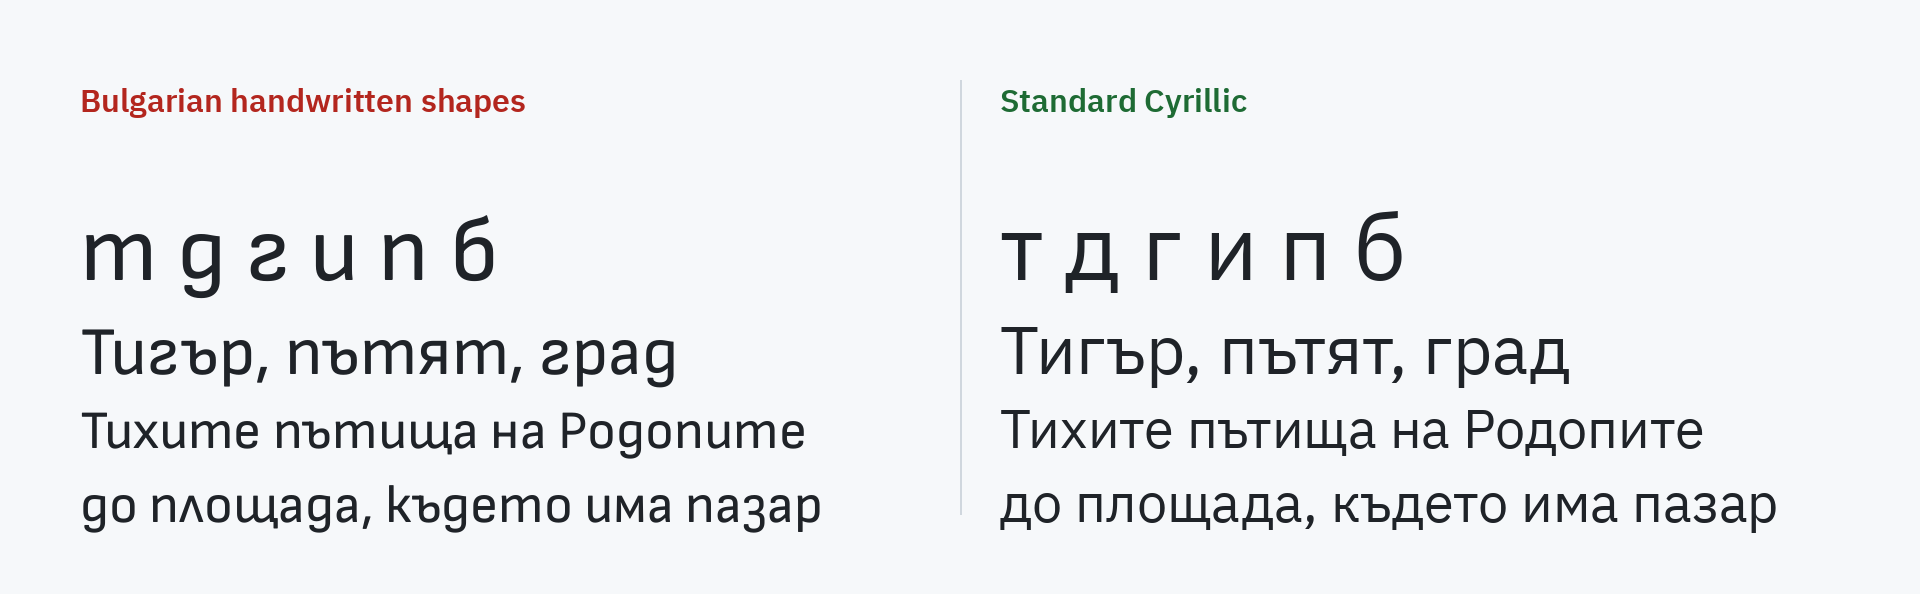
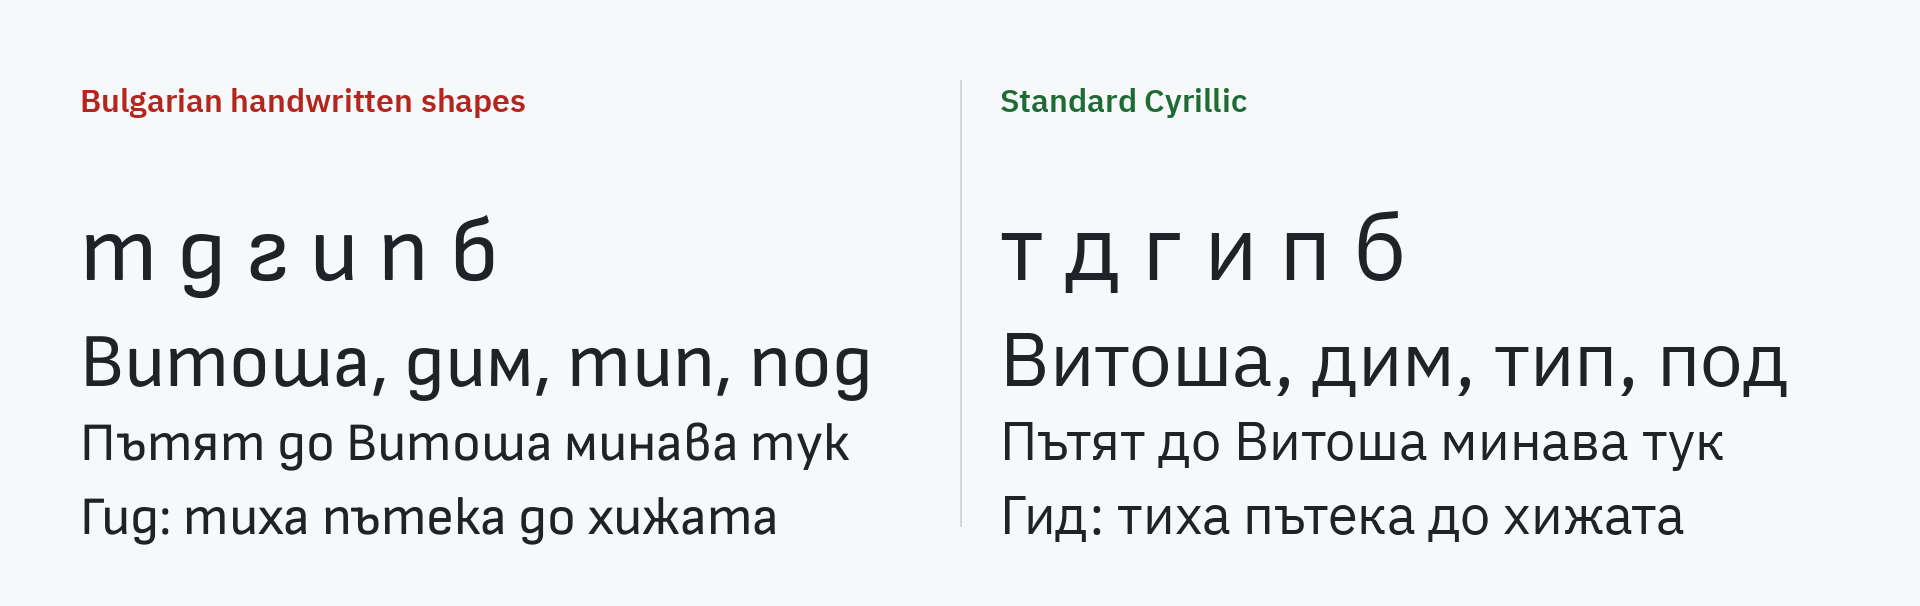
README: the comparison shows words that read as Latin in the handwritten shapes
Витоша, дим, тип, под, drawn in the handwritten shapes, read like the
Latin words Bumowa, gum, mun, nog: the friction the extension removes, in
one line. The sentences are shortened to fit their columns, checked by
their widths.

Claude-Session: https://claude.ai/code/session_01NbKU2jatptWKqf2dWKHc8m

diff --git a/README.md b/README.md
@@ -4,10 +4,11 @@ A browser extension, for Chrome, Edge and Firefox, that shows Bulgarian
 text in the standard Cyrillic letter shapes: т, д, г, и, п as in print, not
 the handwritten shapes that look like m, g, s, u and n.
 
-<img src="docs/comparison.png" width="960" alt="The same Bulgarian text twice: on the left in the handwritten shapes, where т looks like m, д like g, г like a turned s, и like u and п like n; on the right in the standard Cyrillic shapes">
+<img src="docs/comparison.png" width="960" alt="The same Bulgarian text twice. On the left, in the handwritten shapes, Витоша, дим, тип, под read like the Latin words Bumowa, gum, mun, nog; on the right, in the standard Cyrillic shapes, they read as Bulgarian">
 
 The same text in the handwritten shapes (Sofia Sans, whose Cyrillic has them
-as its own letters) and in the standard ones (IBM Plex Sans).
+as its own letters) and in the standard ones (IBM Plex Sans). On the left,
+Витоша reads like "Bumowa", and дим, тип, под like "gum, mun, nog".
 
 Why we made it, and what research says about letters shared by two
 alphabets: [WHY.md](WHY.md).
